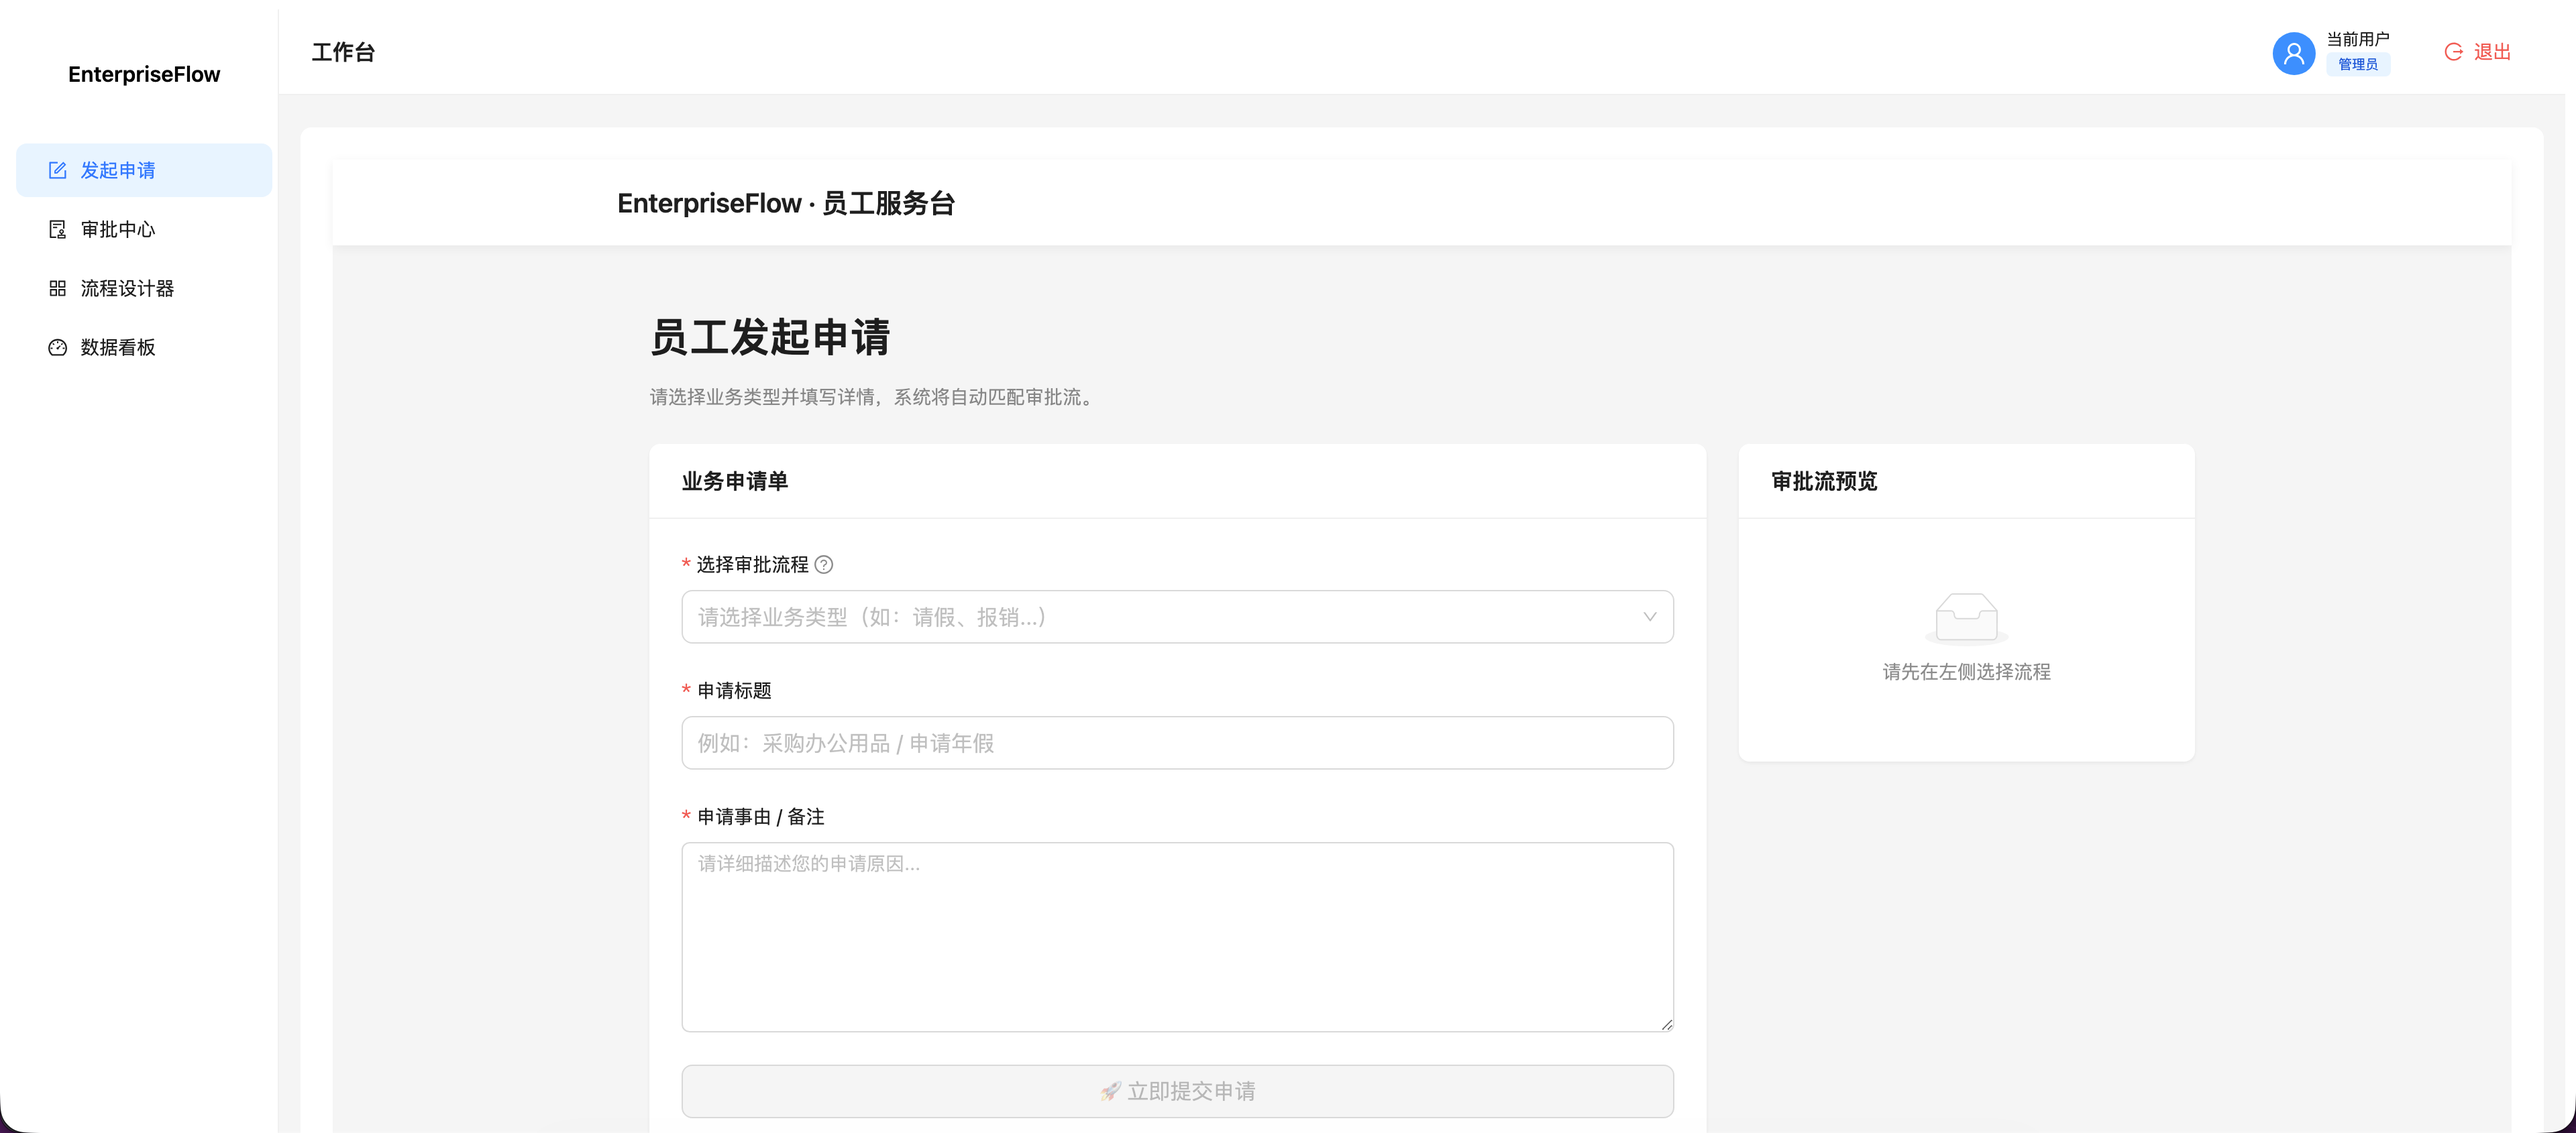
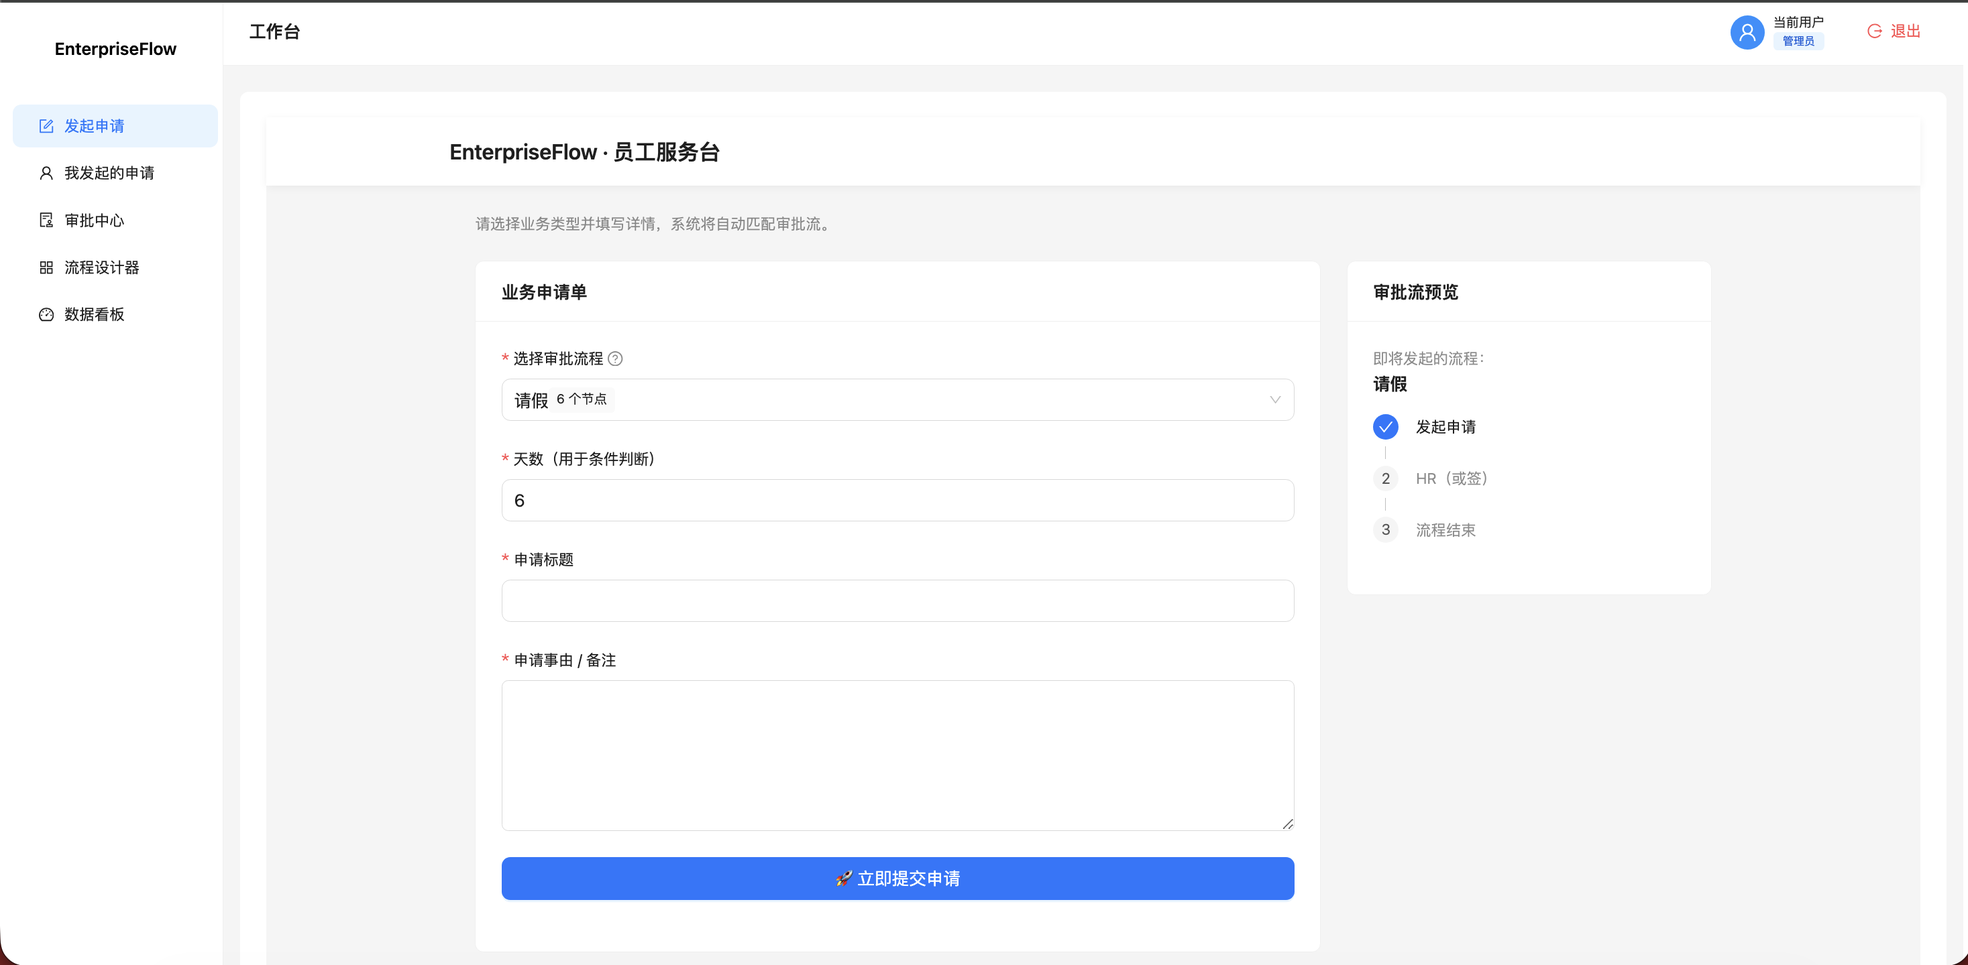
docs(readme): 完善项目说明，补充流程引擎、审批与 Monorepo 架构

diff --git a/apps/saas-platform/src/pages/Apply/index.tsx b/apps/saas-platform/src/pages/Apply/index.tsx
@@ -62,7 +62,6 @@ const ApplyPage: React.FC = () => {
       >
         {/* 页面说明 */}
         <div style={{ marginBottom: 24 }}>
-          <Title level={2}>员工发起申请</Title>
           <Paragraph type="secondary">
             请选择业务类型并填写详情，系统将自动匹配审批流。
           </Paragraph>

diff --git a/README.md b/README.md
@@ -1,167 +1,215 @@
-# 🚀 EnterpriseFlow - 企业低代码流程引擎
+# 🚀 EnterpriseFlow · 流程协作平台（React + Monorepo）
 
-![React](https://img.shields.io/badge/React-18.0-blue?style=flat-square&logo=react)
-![TypeScript](https://img.shields.io/badge/TypeScript-5.0-blue?style=flat-square&logo=typescript)
-![Zustand](https://img.shields.io/badge/State-Zustand-orange?style=flat-square)
-![Ant Design](https://img.shields.io/badge/UI-AntDesign-red?style=flat-square)
-![License](https://img.shields.io/badge/License-MIT-green?style=flat-square)
+![React](https://img.shields.io/badge/React-18-blue)
+![TypeScript](https://img.shields.io/badge/TypeScript-5.x-blue)
+![Vite](https://img.shields.io/badge/Vite-fast-yellow)
+![Zustand](https://img.shields.io/badge/Zustand-State-orange)
+![Ant Design](https://img.shields.io/badge/AntDesign-UI-red)
+![Monorepo](https://img.shields.io/badge/Monorepo-pnpm-green)
 
-> 一个基于 **React + TypeScript + Zustand** 构建的轻量级、高性能低代码流程引擎。  
-> 实现了从 **可视化流程设计**、**员工表单发起**、**RBAC 审批流转** 到 **数据可视化看板** 的完整业务闭环。
+EnterpriseFlow 是一个 **面向企业复杂业务流程的前端流程协作 SaaS 平台**，  
+支持通过 **可视化方式定义业务流程**，并完成 **多角色审批流转、流程追踪与数据展示**。
 
----
-
-## ✨ 项目亮点（Key Features）
-
-### 🎨 1. 可视化流程设计器（Visual Designer）
-
-采用 **“三明治式分层渲染架构”**  
-（SVG 连线层 → HTML 节点层 → 交互层），实现复杂交互下的高性能渲染。
-
-**核心能力：**
-- 拖拽建模：支持节点自由拖拽、画布平移（Space + Drag）
-- 智能连线：贝塞尔曲线连线 + 橡皮筋实时预览
-- 交互增强：ESC / 右键取消连线，Delete 删除节点
-- 逻辑约束：强制「左进右出（Left-in, Right-out）」
-- 图算法校验：流程发布前运行 BFS 校验连通性、死路、断路
-
-> 设计器只负责 **规则定义**，不直接产生业务数据。
+平台覆盖 **流程设计 → 员工申请 → 审批流转 → 数据看板** 的完整闭环，  
+可用于 **请假、报销、采购** 等企业流程的线上化与标准化管理。
 
 ---
 
-### 🔐 2. RBAC 权限与审批流转体系
+## 🧩 项目整体能力
 
-- 内置 Admin / Leader / HR / Finance 角色模型
-- 节点级权限控制（approverRole）
-- 权限隔离：
-  - 管理员：配置流程
-  - 员工：发起申请
-  - 审批人：仅可处理与自身角色匹配的任务
-- 规则在运行态真实控制审批行为
-
----
-
-### 📄 3. 员工申请 & 审批闭环
-
-- 员工发起页（Apply）
-  - 选择流程模板
-  - 填写业务表单
-  - 实时预览审批链路
-- 审批中心（Approval）
-  - 展示当前用户可处理的审批实例
-  - 支持同意 / 拒绝
-- 审批详情页（Detail）
-  - 展示表单数据
-  - 展示流程节点进度与日志
-  - 完整 Apply → Approval → Detail → Approve 闭环
+- 可视化流程设计器（低代码建模）
+- 条件网关（金额 / 天数等动态分支）
+- 多角色审批（HR / Manager / Finance / Admin）
+- 串行审批、会签 / 或签
+- 员工申请 & 实时流程预览
+- 审批中心 & 审批详情
+- 数据可视化看板（Demo）
+- Monorepo 工程化拆分
 
 ---
 
-### 📊 4. 数据可视化看板（Dashboard）
+## ✨ 核心功能
 
-- KPI：总申请数 / 审批中 / 通过率 / 平均耗时
+### 1⃣ 流程设计器（Designer）
+
+- 基于 **画布 + 节点 + 连线** 的可视化流程建模
+- 支持节点类型：
+  - 开始节点
+  - 审批节点
+  - 条件网关（XOR）
+  - 结束节点
+- 条件分支支持：
+  - 金额（amount）
+  - 天数（days）
+- **流程定义态 / 运行态彻底分离**
+- 发布前执行流程合法性校验（断路 / 死路 / 默认路径）
+
+📸 示例：
+![Designer](apps/saas-platform/assets/designer.png)
+
+---
+
+### 2⃣ 员工发起申请（Apply）
+
+- 选择已发布流程模板
+- 根据流程定义 **动态渲染表单字段**
+  - 若流程中存在金额 / 天数条件，才显示对应输入框
+- 实时预览审批路径（基于运行时条件计算）
+
+📸 示例：
+![Apply](apps/saas-platform/assets/apply.png)
+
+---
+
+### 3⃣ 审批中心 & 审批详情（Approval）
+
+- 按角色展示「当前可审批任务」
+- 支持：
+  - 同意 / 拒绝
+  - 会签 / 或签
+- 审批详情页展示：
+  - 表单数据
+  - 当前节点
+  - 流程步骤与历史日志
+
+📸 示例：
+![Approval](apps/saas-platform/assets/approval.png)
+
+---
+
+### 4⃣ 我的申请（My Applications）
+
+- 用户查看自己发起的所有流程实例
+- 实时展示：
+  - 当前节点
+  - 流程状态
+  - 提交时间
+
+📸 示例：
+![My Applications](apps/saas-platform/assets/my-applications.png)
+
+---
+
+### 5⃣ 数据可视化看板（Dashboard · Demo）
+
+- 总申请数 / 审批中 / 通过率 / 平均耗时
 - 审批转化漏斗
-- 申请时间热力图（星期 × 小时）
-- 所有数据均来源于真实流程实例
+- 提交时间热力图
+
+📸 示例：
+![Dashboard](apps/saas-platform/assets/dashboard.png)
 
 ---
 
-## 🛠 技术栈（Tech Stack）
+## 🛠 技术栈
 
-- React 18 + TypeScript
-- Vite
-- Zustand（persist 本地持久化）
-- Ant Design 5
-- Apache ECharts
-- React Router v6
-- nanoid / dayjs
+- **前端框架**：React 18 + TypeScript
+- **构建工具**：Vite
+- **UI 组件库**：Ant Design 5
+- **状态管理**：Zustand
+- **路由管理**：React Router v6（懒加载）
+- **请求管理**：Axios（二次封装）
+- **工程管理**：pnpm + Monorepo
 
 ---
 
-## 📂 核心实现细节（Implementation Details）
+## 🚀 工程亮点
 
-### 1. 流程图数据结构
+### 🔐 路由懒加载 & 动态权限控制
 
-```ts
-type FlowNode = {
-  id: string;
-  type: 'start' | 'approval' | 'end';
-  name: string;
-  position: { x: number; y: number };
-  config?: {
-    approverRole?: 'leader' | 'hr' | 'finance';
-  };
-};
+- React.lazy + Suspense 实现路由级拆包
+- ProtectedRoute 基于角色控制访问权限
+- 支持路由模块预加载，提升首屏与切换体验
 
-type FlowEdge = {
-  id: string;
-  from: { nodeId: string; anchor: 'right' | 'bottom' };
-  to: { nodeId: string; anchor: 'left' | 'top' };
-};
+```tsx
+const Approval = React.lazy(() => import("../pages/Approval"));
+
+<Route
+  path="/approval"
+  element={
+    <ProtectedRoute allowedRoles={["hr", "manager", "admin"]}>
+      <Approval />
+    </ProtectedRoute>
+  }
+/>
 ```
 
-### 2. 流程发布校验（Graph Validation）
+---
 
-```ts
-function validateFlow(nodes, edges) {
-  const startNode = nodes.find(n => n.type === 'start');
-  const graph = buildAdjacencyList(edges);
-  const visited = bfs(graph, startNode.id);
+### ⚙ Axios 二次封装（工程级）
 
-  const endNode = nodes.find(n => n.type === 'end');
-  if (!visited.has(endNode.id)) {
-    throw new Error('流程断路：无法到达结束节点');
-  }
+- 统一接口返回结构（code / message / data）
+- 请求 / 响应拦截器
+- Token 自动注入
+- 错误集中处理
+- 预留 **401 Token 刷新队列机制**
+
+**Token 刷新设计：**
+- isRefreshing 状态锁
+- 并发请求进入队列
+- 刷新成功后统一重放
+
+---
+
+## 🧱 Monorepo 架构设计（pnpm）
+
+```
+apps/
+  saas-platform/        # 主应用（业务层）
+packages/
+  ui-components/        # 通用 UI 组件
+  workflow-sdk/         # 流程引擎 SDK
+  utils/                # 工具函数（校验 / 守卫）
+```
+
+| 包名 | 职责 |
+|---|---|
+| ui-components | 页面壳、状态标签等 UI 抽象 |
+| workflow-sdk | 流程定义、条件计算、审批路径 |
+| utils | 校验、Guard、通用工具 |
+
+```json
+"dependencies": {
+  "@project/ui-components": "workspace:*",
+  "@project/utils": "workspace:*",
+  "@project/workflow-sdk": "workspace:*"
 }
 ```
 
-确保流程 **可执行、可终止、无死路**。
+---
+
+## 🧠 架构设计理念
+
+- **设计器 ≠ 业务**
+- **流程定义 ≠ 流程实例**
+- **UI ≠ 流程引擎**
+- 所有条件判断、审批推进均在运行态真实执行
 
 ---
 
-## 🚀 本地运行（Getting Started）
+## ▶ 本地运行
 
 ```bash
-# 1. 克隆项目
-git clone https://github.com/your-username/enterprise-flow.git
-
-# 2. 安装依赖
-npm install
-# 或
-yarn install
-
-# 3. 启动开发环境
-npm run dev
+pnpm install
+pnpm dev
 ```
 
-浏览器访问：  
-👉 http://localhost:5173
+全局构建（Monorepo）：
+```bash
+pnpm -r build
+```
 
 ---
 
-## 📸 功能截图（Screenshots）
+## 📌 说明
 
-- **流程设计器（Designer）**  
-  ![Designer](./assets/designer.png)
+本项目为 **课程实践 + 工程能力展示项目**，  
+重点在于 **工程分层、模型设计与可扩展性**，而非页面数量。
 
-- **员工发起页（Apply）**  
-  ![Apply](./assets/apply.png)
-
-- **审批中心（Approval）**  
-  ![Approval](./assets/approval.png)
-
-- **数据看板（Dashboard）**  
-  ![Dashboard](./assets/dashboard.png) 
+后续可扩展：
+- 后端服务接入
+- BPMN 兼容
+- 流程回滚 / 撤回
+- 权限策略引擎
 
 ---
-
-## 🗺 未来规划（Roadmap）
-
-- 撤回（Undo）/ 重做（Redo）
-- 会签 / 或签 / 抄送节点
-- 条件分支（Condition Flow）
-- 接入后端 API（替换 LocalStorage）
-- 支持 BPMN 2.0 导入 / 导出
-
----
-
